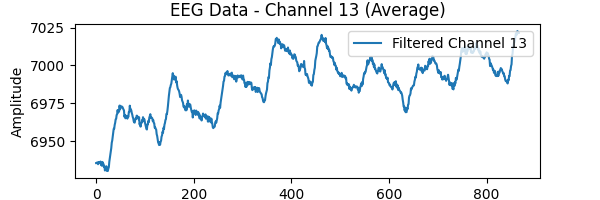
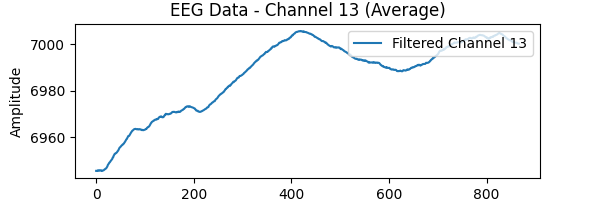
implemented adaptive filter inputs

diff --git a/templates/visualize.html b/templates/visualize.html
@@ -19,19 +19,31 @@
         <h2>Apply Filter</h2>
         <form id="filterForm">
             <label for="filterType">Filter Type:</label>
-            <select id="filterType">
+            <select id="filterType" onchange="updateInputs()">
                 <option value="bandpass">Bandpass</option>
                 <option value="fft">FFT</option>
                 <option value="average">Average</option>
             </select><br><br>
 
-            <label for="lowcut">Low Cut Frequency:</label>
-            <input type="range" id="lowcut" name="lowcut" min="0" max="50" step="1" value="0" oninput="updateValue('lowcutValue', this.value)">
-            <span id="lowcutValue">0</span> Hz<br><br>
+            <div id="bandpassInputs">
+                <label for="lowcut">Low Cut Frequency:</label>
+                <input type="range" id="lowcut" name="lowcut" min="0" max="50" step="1" value="0" oninput="updateValue('lowcutValue', this.value)">
+                <span id="lowcutValue">0</span> Hz<br><br>
 
-            <label for="highcut">High Cut Frequency:</label>
-            <input type="range" id="highcut" name="highcut" min="0" max="100  " step="1" value="100" oninput="updateValue('highcutValue', this.value)">
-            <span id="highcutValue">100</span> Hz<br><br>
+                <label for="highcut">High Cut Frequency:</label>
+                <input type="range" id="highcut" name="highcut" min="0" max="100  " step="1" value="100" oninput="updateValue('highcutValue', this.value)">
+                <span id="highcutValue">100</span> Hz<br><br>
+            </div>
+
+            <div id="fftInputs" style="display: none;"> <!-- Hidden by default-->
+                <!-- FILL WITH NECESSARY INPUTS-->
+            </div>
+
+            <div id="averageInputs" style="display: none;"> <!-- Hidden by default-->
+                <label for="averageType">Window Size:</label>
+                <input type="range" id="window" name="window" min="10" max="100" step="1" value="20" oninput="updateValue('windowValue', this.value)">
+                <span id="windowValue">20</span> Time Points<br><br>
+            </div>
 
             <script>
             function updateValue(id, value) {
@@ -49,5 +61,32 @@
     <div id="newPlot">
         <!-- The new plot will be inserted here after applying the filter -->
     </div>
+
+    <script>
+        // Function to update visible inputs based on selected filter type
+        function updateInputs() {
+            const filterType = document.getElementById("filterType").value;
+
+            // Hide all input groups
+            document.getElementById("bandpassInputs").style.display = "none";
+            document.getElementById("fftInputs").style.display = "none";
+            document.getElementById("averageInputs").style.display = "none";
+
+            // Show the input group based on the selected filter type
+            if (filterType === "bandpass") {
+                document.getElementById("bandpassInputs").style.display = "block";
+            } else if (filterType === "fft") {
+                document.getElementById("fftInputs").style.display = "block";
+            } else if (filterType === "average") {
+                document.getElementById("averageInputs").style.display = "block";
+            }
+        }
+
+        // Function to update displayed values of sliders
+        function updateValue(id, value) {
+            document.getElementById(id).textContent = value;
+        }
+    </script>
+
 </body>
 </html>

diff --git a/static/js/scripts.js b/static/js/scripts.js
@@ -5,6 +5,7 @@ document.addEventListener('DOMContentLoaded', function () {
     const lowcutInput = document.getElementById('lowcut');
     const highcutInput = document.getElementById('highcut');
     const channelInput = document.getElementById('channel');
+    const windowInput = document.getElementById('window');
     const filepath = new URLSearchParams(window.location.search).get('filepath');  // Get filename from query params
 
     // Check if filepath is available
@@ -21,7 +22,8 @@ document.addEventListener('DOMContentLoaded', function () {
             filter_type: filterTypeInput.value,
             lowcut: parseFloat(lowcutInput.value),
             highcut: parseFloat(highcutInput.value),
-            channel: parseInt(channelInput.value)
+            channel: parseInt(channelInput.value),
+            window: parseInt(windowInput.value)
         };
 
         console.log("Sending data:", data);  // Log data for debugging

diff --git a/app.py b/app.py
@@ -106,6 +106,7 @@ def apply_filter():
     filter_type = data.get('filter_type')
     lowcut = data.get('lowcut')
     highcut = data.get('highcut')
+    window_size = data.get('window')
 
     if not filename:
         return jsonify({'error': 'Filename not provided'}), 400
@@ -127,7 +128,7 @@ def apply_filter():
         if filter_type == 'bandpass':
             filtered_data = bandpass_filter(eeg_channel_data, order=4, lowcut=lowcut, highcut=highcut, sampling_freq=1000)
         elif filter_type == 'average':
-            filtered_data = average_filter(eeg_channel_data, window_size=10)
+            filtered_data = average_filter(eeg_channel_data, window_size)
         else:
             return jsonify({'error': 'Invalid filter type'}), 400
 
